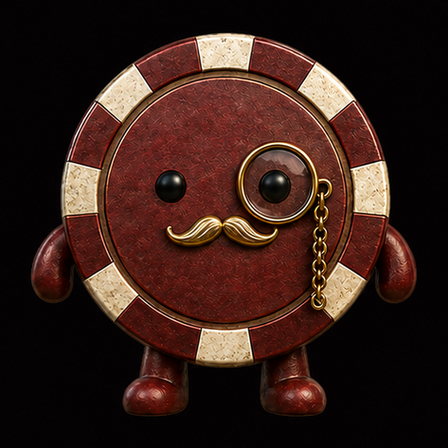
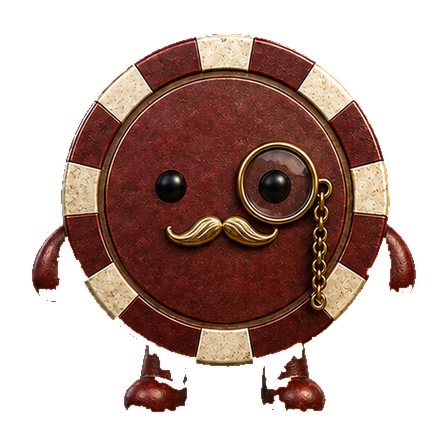
Key the black background out of the legacy characters, and square the picker tiles
The original twelve were generated as RGB with no alpha, so they arrived as a
character sitting on a black square and dropped black tiles into a picker where
everything else is cut out. A global "black becomes transparent" would have
punched holes through them -- they are full of near-black, from the black chip
body to every eye and outline -- so the background is found by flooding inward
from the four corners instead. Only pixels connected to the edge go; anything
the character encloses stays.

The flood leaves a dark fringe where the art was anti-aliased against black, so
the alpha is eroded a pixel and the edge is unpremultiplied against black to
pull the halo back out. The script is committed, because this is the kind of
thing nobody reconstructs a year later.

Picker tiles are squares now, not discs. The artwork is a square figure with
hair above the chip and legs below it, so a circular highlight puts its visual
mass high and reads as mis-centred no matter how the image is aligned -- the
frame was wrong, not the alignment.

pnpm verify passes.

Claude-Session: https://claude.ai/code/session_01SaGfuLTx5wzyJvwCBEGjT1

diff --git a/src/app/profile/ProfileScreen.tsx b/src/app/profile/ProfileScreen.tsx
@@ -339,19 +339,23 @@ export function ProfileScreen({
                       aria-checked={selected}
                       aria-label={key}
                       onClick={() => setDraftKey(key)}
+                      // A square tile, not a disc. The artwork is a square figure with
+                      // hair above the chip and legs below it, so a circular highlight
+                      // sits its visual mass high and looks mis-centred no matter how
+                      // the image is aligned.
                       className={cn(
-                        "rounded-full p-1 transition-[transform,opacity]",
+                        "grid aspect-square place-items-center rounded-2xl p-1.5 transition-[background-color,opacity]",
                         "focus-visible:ring-2 focus-visible:ring-ring focus-visible:outline-none",
                         selected
-                          ? "scale-100 bg-ink-700 opacity-100"
-                          : "scale-95 opacity-55",
+                          ? "bg-ink-700 opacity-100"
+                          : "bg-transparent opacity-55 hover:opacity-80",
                       )}
                     >
                       <ChipAvatar
                         avatarKey={key}
                         personId={profile.id}
                         name={key}
-                        className="size-12"
+                        className="size-full"
                       />
                     </button>
                   );

diff --git a/art-src/scripts/dealpha-legacy.py b/art-src/scripts/dealpha-legacy.py
@@ -1,0 +1,64 @@
+"""
+Key the baked black background out of the original twelve chip characters.
+
+They were generated as RGB with no alpha, so they arrived as a character sitting on a
+black square. The new set is RGBA, and mixing the two puts black tiles in the picker.
+
+A global "black becomes transparent" would punch holes through the characters, which
+contain plenty of near-black themselves -- the black chip body, the eyes, every outline.
+So the background is found by flooding inward from the four corners instead: only pixels
+connected to the edge are removed, and anything enclosed by the character stays.
+
+The flood leaves a dark fringe where the artwork was anti-aliased against black, so the
+alpha is eroded by a pixel and the remaining edge is unpremultiplied against black to
+pull that halo back out.
+"""
+
+import sys
+from pathlib import Path
+
+import numpy as np
+from PIL import Image, ImageDraw, ImageFilter
+
+SENTINEL = (255, 0, 255)
+FLOOD_THRESHOLD = 60
+
+
+def dealpha(src: Path, dest: Path) -> None:
+    original = Image.open(src).convert("RGB")
+    flooded = original.copy()
+    width, height = flooded.size
+
+    for seed in ((0, 0), (width - 1, 0), (0, height - 1), (width - 1, height - 1)):
+        ImageDraw.floodfill(flooded, seed, SENTINEL, thresh=FLOOD_THRESHOLD)
+
+    marked = np.array(flooded).astype(np.int16)
+    background = np.all(np.abs(marked - np.array(SENTINEL)) < 12, axis=-1)
+
+    alpha = Image.fromarray(np.where(background, 0, 255).astype(np.uint8))
+    # MinFilter erodes: it pulls the edge in by a pixel, taking the darkest ring of
+    # anti-aliased pixels with it.
+    alpha = alpha.filter(ImageFilter.MinFilter(3))
+    # Then soften what is left so the cut does not read as a stencil.
+    alpha = alpha.filter(ImageFilter.GaussianBlur(0.6))
+
+    rgb = np.array(original).astype(np.float32)
+    a = np.array(alpha).astype(np.float32) / 255.0
+
+    # The edge pixels are the character blended with black. Dividing by the coverage
+    # recovers the character's own colour, which is what stops a grey halo.
+    with np.errstate(divide="ignore", invalid="ignore"):
+        recovered = np.where(a[..., None] > 0.05, rgb / np.clip(a[..., None], 0.05, 1.0), rgb)
+    recovered = np.clip(recovered, 0, 255).astype(np.uint8)
+
+    out = np.dstack([recovered, (a * 255).astype(np.uint8)])
+    Image.fromarray(out, "RGBA").save(dest)
+
+
+if __name__ == "__main__":
+    source_dir = Path(sys.argv[1])
+    out_dir = Path(sys.argv[2])
+    out_dir.mkdir(parents=True, exist_ok=True)
+    for path in sorted(source_dir.glob("chip-*.png")):
+        dealpha(path, out_dir / path.name)
+        print("keyed", path.name)
